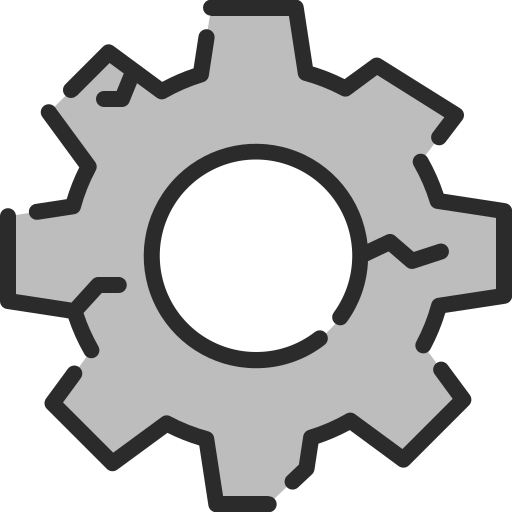
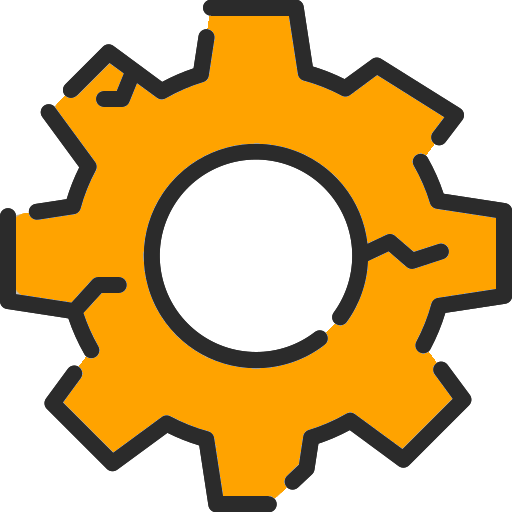
#

diff --git a/7th week Speed Game/script.js b/7th week Speed Game/script.js
@@ -1,3 +1,4 @@
+const resetButton = document.getElementById("setting-logo");
 const startButton = document.getElementById("start");
 const stopButton = document.getElementById("stop");
 const circles = document.querySelectorAll(".circle");
@@ -7,21 +8,51 @@ let score = 0;
 let random = 0;
 let lives = 4;
 let dedCount = 0;
-let gameRunning, chosen, i;
+let gameRunning, chosen, i, random1;
 let scored = false;
 let firstRound = true;
+let round = 0;
+let pace = 900;
+
+const settingToggle = () => {
+  let settingpage = document.getElementById("setting");
+  let playground = document.getElementById("playground");
+  if (settingpage.style.display === "none") {
+    settingpage.style.display = "block";
+    playground.style.display = "none";
+  } else {
+    settingpage.style.display = "none";
+    playground.style.display = "block";
+  }
+};
+const difficultyChange = (value) => {
+  if (value == "easy") {
+    pace = 1200;
+    document.getElementById("difficulty").innerHTML = "Easy";
+    console.log(pace);
+  } else if (value == "medium") {
+    pace = 900;
+    document.getElementById("difficulty").innerHTML = "Medium";
+    console.log(pace);
+  } else {
+    pace = 700;
+    document.getElementById("difficulty").innerHTML = "Hard";
+    console.log(pace);
+  }
+};
 
 /* start the game */
 const startGame = () => {
   document.getElementById("title").innerHTML = "CATCH THE EVIL PUMPKIN !!!";
   console.log("game started");
-  gameRunning = setInterval(newRound, 1000);
+  console.log("pace = ", pace);
+  gameRunning = setInterval(newRound, pace);
 };
 
 const newRound = () => {
-  if (lives <= 0) {
-    endGame();
-  }
+  round += 1;
+  console.log(`-----------ROUND ${round}------------`);
+
   /* get random number */
   random1 = Math.floor(Math.random() * 3);
   console.log("random number is ", random1);
@@ -30,7 +61,7 @@ const newRound = () => {
     random1 = Math.floor(Math.random() * 3);
   }
   random = random1;
-
+  /* turn off classes after every round */
   circles.forEach((circle) => {
     if (
       circle.classList.contains("active") ||
@@ -40,14 +71,19 @@ const newRound = () => {
       circle.classList.remove("glow");
     }
   });
-
+  console.log("Is this first round? ", firstRound);
+  console.log("Have user scored?", scored);
   /* change background */
   chosen = circles[random];
   chosen.classList.add("active");
   noClick();
   firstRound = false;
+  scored = false;
   document.getElementById("lives").innerHTML = lives;
-  console.log("current lives are ", lives);
+  console.log("Health: ", lives);
+  if (lives <= 0) {
+    endGame();
+  }
 };
 
 /* find which circle was clicked and check if right circle was clicked */
@@ -58,21 +94,22 @@ circles.forEach((circle, i) => {
 const clickCircle = (i) => {
   if (random == i) {
     score += 1;
-    console.log("score =", score);
+    console.log("Right circle clicked, score =", score);
     scored = true;
     chosen.classList.add("glow");
     /* add clicked pumpkin asset */
   } else {
-    console.log("wrong");
+    console.log("Wrong circle clicked, (-1)");
     minusLife();
   }
   document.getElementById("score").innerHTML = score;
 };
+
 /* losing condition: no click */
 const noClick = () => {
   if (firstRound == false && scored == false) {
     minusLife();
-    console.log("No click, minus 1 life.", lives, " remaining");
+    console.log("No click (-1).", lives, "health remaining");
   }
 };
 
@@ -81,7 +118,7 @@ const minusLife = () => {
   lives -= 1;
   dedCount += 1;
   hearts[hearts.length - dedCount].classList.add("ded");
-  console.log("current lives are ", lives);
+  console.log("health decreased");
 };
 
 /* end the game */
@@ -99,6 +136,7 @@ const reset = () => {
 
 startButton.addEventListener("click", startGame);
 stopButton.addEventListener("click", endGame);
+resetButton.addEventListener("click", settingToggle);
 
 /* Modal */
 let modal = document.getElementById("modal");

diff --git a/7th week Speed Game/index.html b/7th week Speed Game/index.html
@@ -21,17 +21,50 @@
     <title>Halloween Speed Game</title>
   </head>
   <body>
+    <p id="top-dif">Difficulty: <span id="difficulty">Medium</span></p>
+    <div id="setting-logo"></div>
+    <section id="setting">
+      <h1>SETTINGS</h1>
+      <h2>Choose your level of difficulty:</h2>
+      <form>
+        <input
+          type="radio"
+          id="dif1"
+          name="dif-setting"
+          onchange="difficultyChange(this.value)"
+          value="easy"
+        />
+        <label for="dif1">Easy</label>
+        <input
+          type="radio"
+          id="dif2"
+          name="dif-setting"
+          onchange="difficultyChange(this.value)"
+          value="medium"
+          checked
+        />
+        <label for="dif2">Medium</label>
+        <input
+          type="radio"
+          id="dif3"
+          name="dif-setting"
+          onchange="difficultyChange(this.value)"
+          value="hard"
+        />
+        <label for="dif3">Hard</label>
+      </form>
+    </section>
     <section id="playground">
       <div class="hearts">
-        <div class="heart">1</div>
-        <div class="heart">2</div>
-        <div class="heart">3</div>
-        <div class="heart">4</div>
+        <div class="heart"></div>
+        <div class="heart"></div>
+        <div class="heart"></div>
+        <div class="heart"></div>
       </div>
-      <div class="setting"></div>
 
       <h1>SPEED GAME</h1>
-      <h2>Your score is: <span id="score">0</span></h2>
+
+      <p>Your score is: <span id="score">0</span></p>
       <p>Your lives remaining: <span id="lives">4</span></p>
       <p id="title">Press "start game" when you are ready</p>
 

diff --git a/7th week Speed Game/style.css b/7th week Speed Game/style.css
@@ -7,7 +7,7 @@ html {
   scroll-behavior: smooth;
   width: 100vw;
   height: 100vh;
-  padding: 10vw;
+  padding: 8vw;
 }
 
 body {
@@ -48,19 +48,6 @@ footer {
   background-image: url(assets/pumpkin-heart-ded.png);
 }
 
-.setting {
-  position: absolute;
-  top: 0;
-  right: 0;
-  background-image: url(assets/setting.png);
-  background-repeat: no-repeat;
-  background-position: center;
-  background-size: cover;
-  width: 50px;
-  height: 50px;
-  margin: 5px;
-}
-
 .circles {
   width: 100%;
   height: 250px;
@@ -87,7 +74,7 @@ footer {
 }
 
 .circle.active {
-  background-image: url(assets/pumpkin-dark.jpeg);
+  background-image: url(assets/pumpkin-dark.png);
   background-color: transparent;
   background-repeat: no-repeat;
   background-position: center;
@@ -102,13 +89,39 @@ footer {
 }
 
 button {
-  background-color: orangered;
+  background-color: orange;
   color: black;
   font-size: 25px;
   border-radius: 40%;
   padding: 10px;
 }
+#playground {
+  display: block;
+}
+#setting {
+  display: none;
+}
 
+#setting-logo {
+  position: absolute;
+  top: 0;
+  right: 0;
+  background-image: url(assets/setting-normal.png);
+  background-repeat: no-repeat;
+  background-position: center;
+  background-size: cover;
+  width: 50px;
+  height: 50px;
+  margin: 5px;
+}
+#setting-logo:hover {
+  background-image: url(assets/setting.png);
+}
+#top-dif {
+  position: absolute;
+  top: 15px;
+  right: 70px;
+}
 #modal {
   display: none;
   position: fixed;
